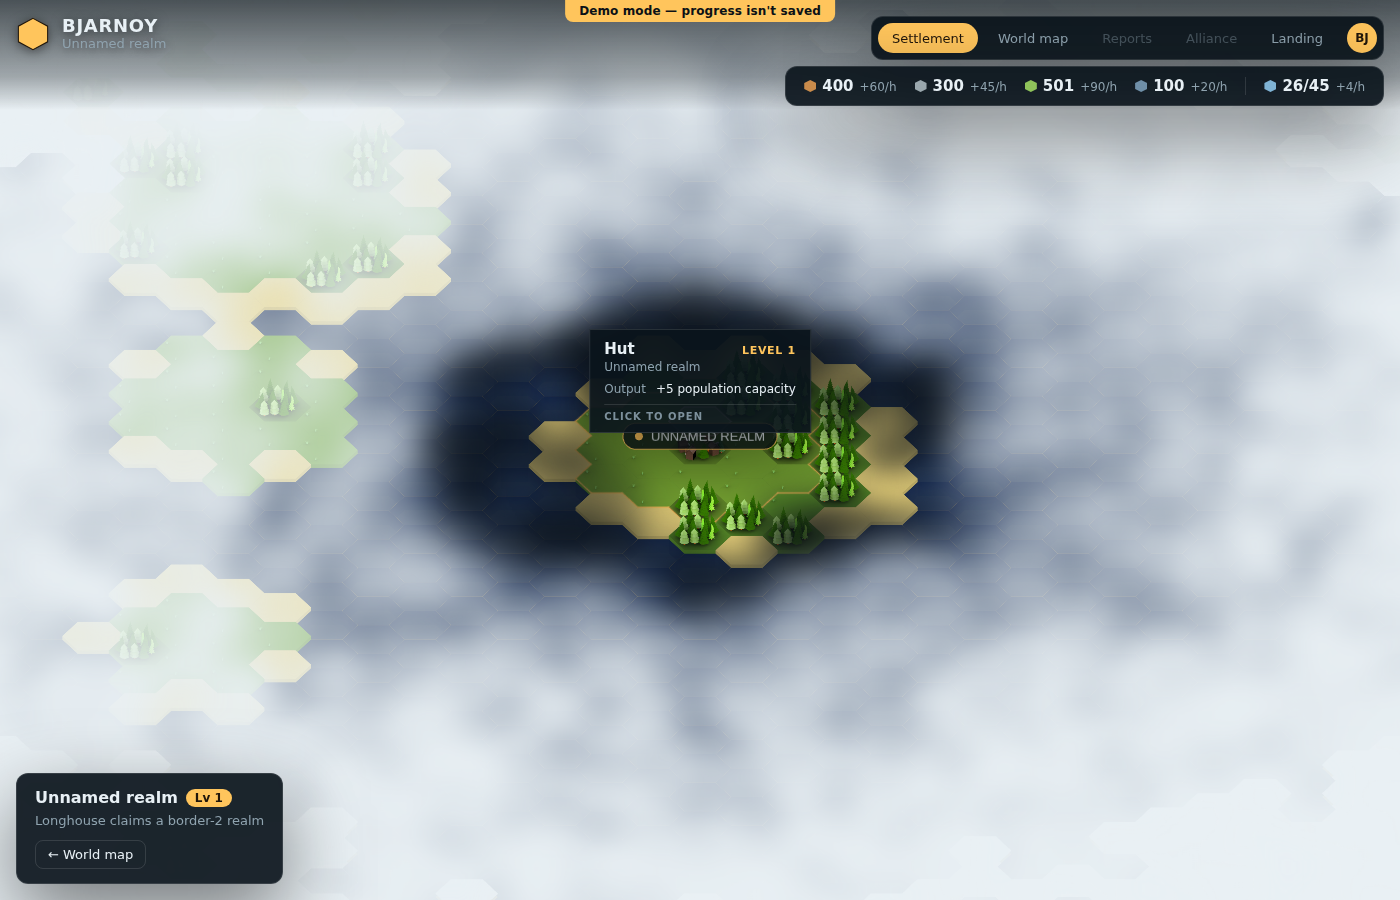
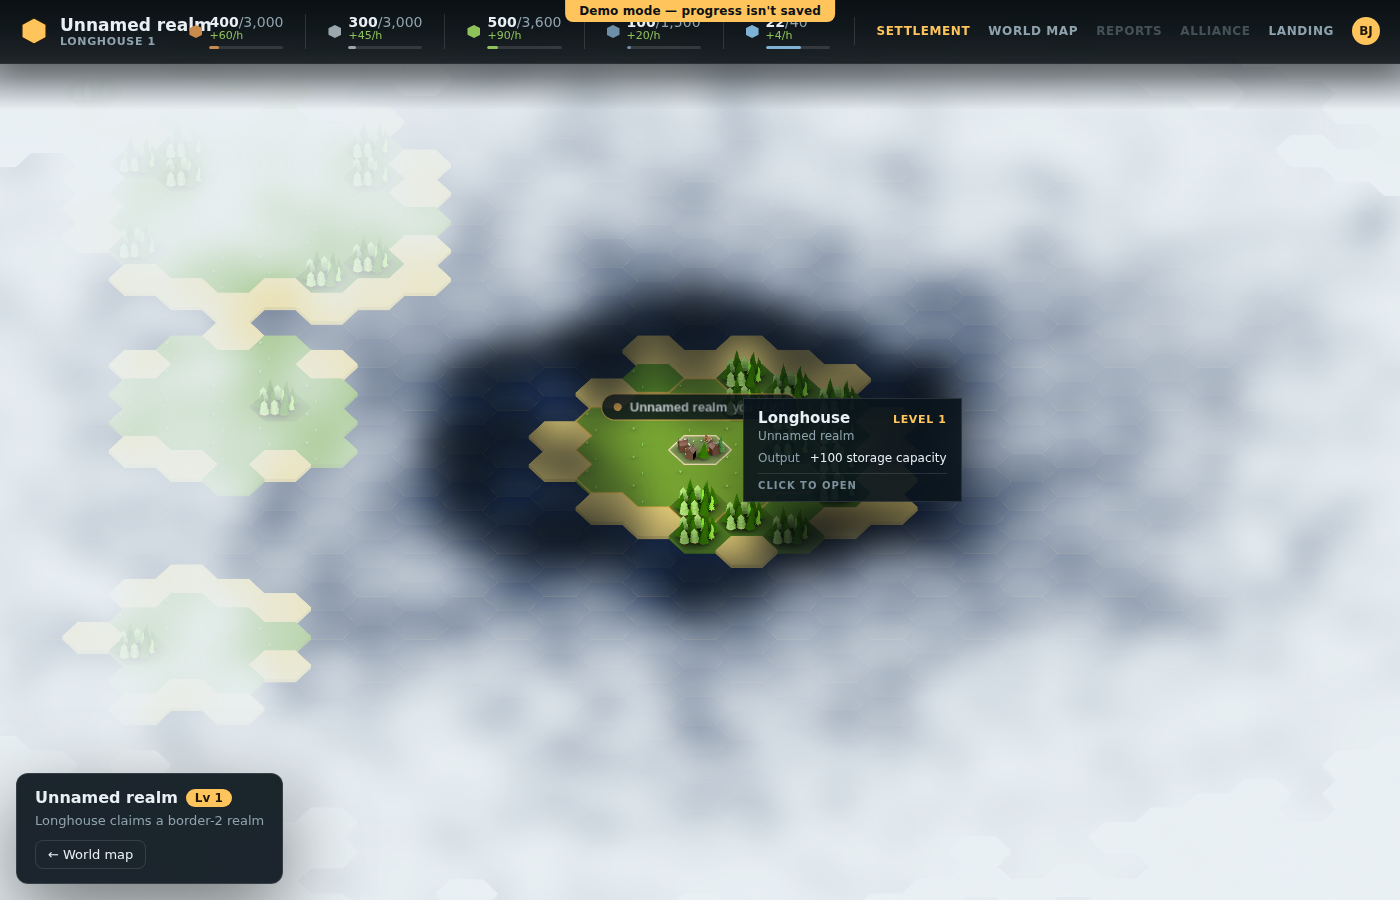
Fix hover tooltip overlap and disable-on-water-in-village bugs (#16 follow-up)
- HexTooltip.vue / HexMapRenderer.ts: anchor the tooltip's screen position
  at the hovered tile's right edge instead of its centre, so the card
  renders clear of the hex instead of covering its right half.
- HexMapRenderer.ts: hover on sea tiles was disabled in every view; scope
  that to the landing page's pre-founding preview only (mode 'settlement'
  with no settlement founded yet) so water hovers/tooltips normally once a
  settlement exists.
- docs/design/hud-alignment.md: document both corrections with updated
  screenshots.

Claude-Session: https://claude.ai/code/session_01ERZagrb4FcevNxyBbj6AME

Changed region(s): [[0.0, 0.0, 1.0, 0.1867], [0.3993, 0.3422, 0.7064, 0.5911]]

diff --git a/src/frontend/src/lib/map/HexMapRenderer.ts b/src/frontend/src/lib/map/HexMapRenderer.ts
@@ -821,10 +821,13 @@ export class HexMapRenderer {
       return;
     }
     const tile = worldModel.getTile(coord.q, coord.r);
-    // Water is never a valid target — neither to found on (landing) nor to
-    // build on (settlement) nor to click into (world map) — so the hover
-    // outline shouldn't appear over it in any mode.
-    if (tile.terrain === 'sea') {
+    // Water is never a valid target to found on, so the landing page's
+    // pre-founding preview (settlement mode, no settlement yet) hides the
+    // hover outline over it — otherwise the player could "hover" a spot
+    // they can't actually land on. Once a settlement exists (village view)
+    // or in world-map mode, water is just terrain like any other hex and
+    // should hover/tooltip normally, even though it's still not buildable.
+    if (tile.terrain === 'sea' && mode === 'settlement' && !this.settlement()) {
       this.options.onHoverChange?.(null);
       return;
     }
@@ -840,7 +843,12 @@ export class HexMapRenderer {
   }
 
   private hoverInfoFor(tile: Tile, grid: { x: number; y: number }): HoverInfo {
-    const screen = this.toScreen({ x: grid.x + TILE_W / 2, y: grid.y + TILE_CENTER_Y_OFFSET });
+    // Anchor at the tile's own right edge (not its centre) so the tooltip
+    // — which grows rightward from screenX, see HexTooltip.vue — sits
+    // clear of the hex instead of covering its right half. The edge itself
+    // scales with zoom via toScreen, so the gap stays correct at any zoom
+    // level rather than the fixed-pixel offset a centre anchor would need.
+    const screen = this.toScreen({ x: grid.x + TILE_W, y: grid.y + TILE_CENTER_Y_OFFSET });
     const owner = tile.ownerId ? this.options.worldModel.getSettlement(tile.ownerId) : undefined;
     const mine = owner?.ownerId === this.options.playerId;
 

diff --git a/src/frontend/src/components/hud/HexTooltip.vue b/src/frontend/src/components/hud/HexTooltip.vue
@@ -10,8 +10,12 @@ import type { HoverInfo } from '../../lib/map/HexMapRenderer';
 
 const props = defineProps<{ info: HoverInfo }>();
 
+// screenX is already anchored at the hovered tile's own right edge
+// (HexMapRenderer.hoverInfoFor), so only a small fixed margin is needed
+// here — the tile-width offset itself lives in world space and scales
+// with zoom on its own.
 const style = computed(() => ({
-  left: `${props.info.screenX + 22}px`,
+  left: `${props.info.screenX + 12}px`,
   top: `${props.info.screenY}px`,
 }));
 </script>

diff --git a/docs/design/hud-alignment.md b/docs/design/hud-alignment.md
@@ -275,6 +275,39 @@ as a precedent).
 
 ![hover tooltip on a hut](img/hex_hover_tooltip.png)
 
+**Correction after review — tooltip overlapped the hex instead of sitting beside it, and hover was broken
+on water in the village view:** review against a screenshot from the actual PR (not this doc's own) found
+two real bugs, neither caught by the "verified: yes" above.
+
+1. **Tooltip overlapping the hex.** `hoverInfoFor` anchored `screenX` at the tile's *centre*
+   (`grid.x + TILE_W / 2`), and `HexTooltip.vue` offset the card by a flat `+22px` from there. At the
+   settlement view's default zoom the tile is far wider than 22px on screen, so the card's left edge landed
+   inside the tile's own right half instead of clear of it — the reference (section 3's own written spec,
+   "a dark navy card to the right of the hovered tile") shows the card entirely outside the hex, not
+   overlapping it. Fixed by anchoring `screenX` at the tile's own right edge (`grid.x + TILE_W`, the hex's
+   actual right vertex per `isoTopPoints`) instead of its centre — that edge already scales with zoom via
+   `toScreen`, so only a small fixed margin (`+12px`) is needed in `HexTooltip.vue` on top of it, rather than
+   a flat offset that only happened to look right at one zoom level.
+2. **Hover disabled on water everywhere, including the village view.** `setHoveredCoord` unconditionally
+   skipped the hover outline/tooltip for any `sea` tile, in every mode — a blanket rule that made sense for
+   the landing page's pre-founding preview (you can't found on water, so previewing a hover there is
+   misleading) but wasn't supposed to extend to the settlement (village) view, where water is just terrain
+   like any other hex — not buildable, but still a legitimate thing to point at and see "Open water /
+   Unclaimed". Fixed by scoping the skip to exactly the landing case: `mode === 'settlement' && !this.settlement()`
+   (no settlement founded yet) — reusing the same `settlement()` check `isFogActive` already relies on to tell
+   the pre-founding preview apart from a real village. World-map mode was never affected by this bug (its own
+   sea handling is unrelated) and keeps its existing behavior.
+
+Verified both with Playwright: hovering a building in the settlement view now shows the tooltip clear of the
+hex (screenshot below, replacing the one above with the same "verified" claim), hovering open water in the
+settlement view now shows the outline plus an "Open water / Unclaimed" tooltip, and hovering a genuine sea
+tile on the landing page's pre-founding preview (coordinates confirmed via `WorldModel.getTile` — the
+preview draws no water texture at all, so a screenshot alone can't distinguish real sea from simply-unrendered
+land off to the side) still shows no hover at all, matching the "only disabled in landing page" fix.
+
+![hover tooltip clear of the tile it's describing](img/hex_hover_tooltip.png)
+![hover working on open water in the village view](img/hex_hover_water.png)
+
 ---
 
 ## 4. Settlement badge
